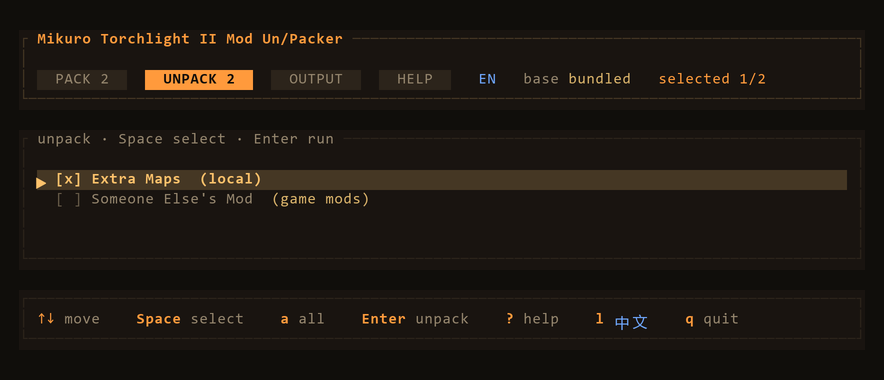
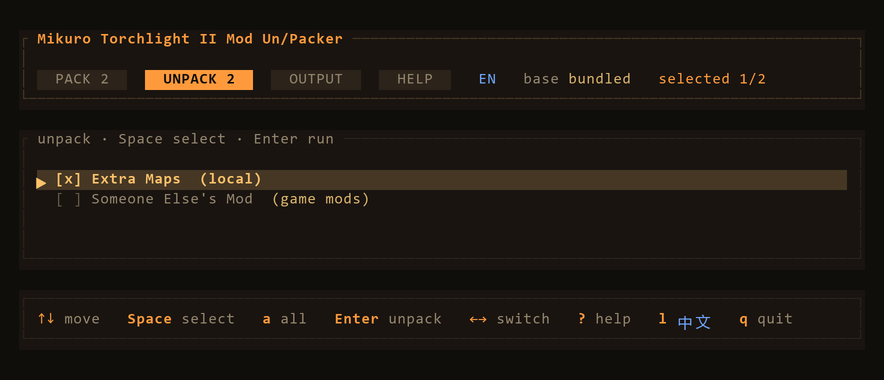
feat(tui): ←→ changes tab, and the footer stops clipping
The number keys 1-4 already switched tab but nothing said so, and the
pickers advertised no way to change tab at all — `Tab` was named only on
the Output and Help footers, where it reads as a character rather than a
key. Left/Right now switch too (Tab/BackTab and 1-4 still work) and `←→`
leads the hint on every footer, since an arrow pair needs no explaining.

That one extra entry exposed a defect the footer already had: it was a
fixed-gap line with no idea how wide the terminal was, so it clipped in
silence. Russian overflowed at 96 columns the moment the hint was added,
and the entries that fall off the END are `l <language>` and `q quit` —
the two nothing else in the UI advertises. The footer now closes its gaps
from 4 columns to 2, then drops entries marked optional (Home/End/c/a/?)
last-first, keeping move, run, tab, language and quit whatever the width.

Test walks all three languages × four tabs × 80/96/120 columns; it fails
on the pre-shrink layout (Russian at 80 loses the whole line). 80 columns
because that is what a default console window gives you.

Also folds the duplicate `switch_2` catalogue key into `switch`, and
regenerates the README screenshots so the manual shows the real footer.

Changed region(s): [[0.1527, 0.8105, 0.6414, 0.8684], [0.7636, 0.8105, 0.8857, 0.8684], [0.6719, 0.8105, 0.733, 0.8684]]

diff --git a/src/tui.rs b/src/tui.rs
@@ -1016,8 +1016,11 @@ fn handle_key(app: &mut App, k: KeyEvent) -> Option<ExitCode> {
         };
     }
     match k.code {
-            KeyCode::Tab => app.tab = (app.tab + 1) % TAB_COUNT,
-            KeyCode::BackTab => app.tab = (app.tab + TAB_COUNT - 1) % TAB_COUNT,
+            // ←→ is what the footer advertises: it has room for one hint, and an
+            // arrow pair needs no explaining. Tab/BackTab and the number keys go
+            // on working for whoever reaches for those first.
+            KeyCode::Tab | KeyCode::Right => app.tab = (app.tab + 1) % TAB_COUNT,
+            KeyCode::BackTab | KeyCode::Left => app.tab = (app.tab + TAB_COUNT - 1) % TAB_COUNT,
             // Direct tab keys: faster than cycling once there are three.
             KeyCode::Char('1') => app.tab = TAB_PACK,
             KeyCode::Char('2') => app.tab = TAB_UNPACK,
@@ -1580,86 +1583,117 @@ fn draw_help(f: &mut Frame, area: Rect, app: &App) {
     f.render_widget(p, area);
 }
 
+/// One footer entry: the key you press, what it does, and whether the line can
+/// be shortened by leaving it out.
+struct Hint {
+    key: String,
+    label: String,
+    color: Color,
+    /// True when the entry can be dropped on a narrow terminal. The keys that
+    /// cannot: moving, running, changing tab, changing language, quitting.
+    optional: bool,
+}
+
 fn draw_footer(f: &mut Frame, area: Rect, app: &App) {
-    // Both take the text by reference and own it in the Span: the labels now
-    // come from the string catalogue, which is borrowed from `app`.
-    let key = |s: &str| {
-        Span::styled(
-            s.to_string(),
-            Style::default().fg(theme::EMBER).add_modifier(Modifier::BOLD),
-        )
-    };
-    let sep = |s: &str| Span::styled(s.to_string(), Style::default().fg(theme::MUTED));
-    // Wider gaps between key/label pairs than between a key and its own label,
-    // so the eye groups them correctly instead of reading one long run.
     let tr = |key: &str| app.tr(key);
     let quit = if app.is_packing() {
         tr("running_2")
     } else {
         tr("quit")
     };
+    // The catalogue pads its footer labels on BOTH sides — a leading space held
+    // the key apart from its own label, trailing ones held the entries apart.
+    // Spacing is decided here now (it has to shrink on a narrow terminal), so
+    // the padding is trimmed back off.
+    let hint = |k: &str, label: &str, optional: bool| Hint {
+        key: k.to_string(),
+        label: label.trim().to_string(),
+        color: theme::MUTED,
+        optional,
+    };
+    // Changing tab is the one action available on EVERY tab, and the pickers
+    // advertised no way to do it at all — the number keys work but are invisible,
+    // and `Tab` reads as a character rather than a key. `←→` explains itself.
+    let tabs = || hint("←→", tr("switch"), false);
     // The language switch is on every tab: someone can land in a script they
     // cannot read, and the key must be reachable without understanding the UI.
     // The label is the NEXT language's own tag, so it reads the same to anyone.
-    let lang_hint = |v: &mut Vec<Span<'static>>| {
-        v.push(key("l"));
-        v.push(Span::styled(
-            format!(" {}    ", app.lang.next().tag()),
-            Style::default().fg(theme::MAGIC),
-        ));
+    let lang = || Hint {
+        key: "l".to_string(),
+        label: app.lang.next().tag().to_string(),
+        color: theme::MAGIC,
+        optional: false,
     };
-    let hint = if app.tab == TAB_HELP {
-        let mut v = vec![
-            key("↑↓"),
-            sep(tr("scroll")),
-            key("Home"),
-            sep(tr("top")),
-            key("Tab"),
-            sep(tr("switch")),
-        ];
-        lang_hint(&mut v);
-        v.push(key("q"));
-        v.push(sep(quit));
-        Line::from(v)
+
+    let mut items: Vec<Hint> = if app.tab == TAB_HELP {
+        vec![
+            hint("↑↓", tr("scroll"), false),
+            hint("Home", tr("top"), true),
+            tabs(),
+            lang(),
+        ]
     } else if app.tab == TAB_OUTPUT {
-        let mut v = vec![
-            key("↑↓"),
-            sep(tr("scroll_2")),
-            key("End"),
-            sep(tr("follow")),
-            key("c"),
-            sep(tr("clear")),
-            key("Tab"),
-            sep(tr("switch_2")),
-        ];
-        lang_hint(&mut v);
-        v.push(key("q"));
-        v.push(sep(quit));
-        Line::from(v)
+        vec![
+            hint("↑↓", tr("scroll_2"), false),
+            hint("End", tr("follow"), true),
+            hint("c", tr("clear"), true),
+            tabs(),
+            lang(),
+        ]
     } else {
-        let run = if app.tab == TAB_UNPACK {
-            tr("unpack_2")
-        } else {
-            tr("pack_2")
-        };
-        let mut v = vec![
-            key("↑↓"),
-            sep(tr("move")),
-            key("Space"),
-            sep(tr("select")),
-            key("a"),
-            sep(tr("all")),
-            key("Enter"),
-            sep(run),
-            key("?"),
-            sep(tr("help_2")),
-        ];
-        lang_hint(&mut v);
-        v.push(key("q"));
-        v.push(sep(quit));
-        Line::from(v)
+        let run = if app.tab == TAB_UNPACK { tr("unpack_2") } else { tr("pack_2") };
+        vec![
+            hint("↑↓", tr("move"), false),
+            hint("Space", tr("select"), false),
+            hint("a", tr("all"), true),
+            hint("Enter", run, false),
+            tabs(),
+            hint("?", tr("help_2"), true),
+            lang(),
+        ]
     };
-    let p = Paragraph::new(hint)
+    items.push(hint("q", quit, false));
+
+    // Fit the line: first close the gaps from 4 columns down to 2, then start
+    // leaving out the entries marked optional, last one first. A footer that
+    // silently clips is worse than a shorter one — the keys at the END are the
+    // ones you cannot discover any other way (language, quit).
+    let inner = area.width.saturating_sub(4) as usize;
+    let width = |items: &[Hint], gap: usize| -> usize {
+        items
+            .iter()
+            .map(|h| disp_width(&h.key) + 1 + disp_width(&h.label))
+            .sum::<usize>()
+            + gap * items.len().saturating_sub(1)
+    };
+    let mut gap = 4;
+    while gap > 2 && width(&items, gap) > inner {
+        gap -= 1;
+    }
+    while width(&items, gap) > inner {
+        match items.iter().rposition(|h| h.optional) {
+            Some(i) => {
+                items.remove(i);
+            }
+            None => break, // nothing left to give; the terminal is simply tiny
+        }
+    }
+
+    let mut spans: Vec<Span<'static>> = Vec::new();
+    for (i, h) in items.iter().enumerate() {
+        if i > 0 {
+            spans.push(Span::raw(" ".repeat(gap)));
+        }
+        spans.push(Span::styled(
+            h.key.clone(),
+            Style::default().fg(theme::EMBER).add_modifier(Modifier::BOLD),
+        ));
+        spans.push(Span::styled(
+            format!(" {}", h.label),
+            Style::default().fg(h.color),
+        ));
+    }
+    let p = Paragraph::new(Line::from(spans))
         .block(
             Block::default()
                 .borders(Borders::ALL)
@@ -2577,6 +2611,57 @@ mod tests {
         let wrapped = visible(&app, &mut terminal);
         assert_eq!(app.pack.state.selected(), Some(29));
         assert!(wrapped.contains(&"Mod29".to_string()), "wrapped to the last row and showed it");
+    }
+
+    /// The footer must never clip. It is the only place several keys are named
+    /// at all, and the ones at the END — change language, quit — are exactly the
+    /// ones nothing else advertises, so a line that silently ran off the edge
+    /// took those with it. Russian at 80 columns is the tight case: the labels
+    /// are the longest and 80×25 is what a default console window gives you.
+    #[test]
+    fn the_footer_fits_every_language_at_80_columns() {
+        use ratatui::backend::TestBackend;
+        use ratatui::Terminal;
+
+        let packs = || {
+            vec![ModEntry {
+                title: "Some Mod".into(),
+                file_name: "SOME_MOD".into(),
+                dir: PathBuf::from("/x/SomeMod"),
+                has_layouts: true,
+                action: Action::Pack,
+                origin: Origin::Local,
+            }]
+        };
+        for lang in [Lang::En, Lang::Zh, Lang::Ru] {
+            let mut app =
+                App::new(packs(), Vec::new(), BaseSource::Bundled, PathBuf::from("/x"));
+            app.set_lang(lang);
+            for width in [80u16, 96, 120] {
+                for tab in [TAB_PACK, TAB_UNPACK, TAB_OUTPUT, TAB_HELP] {
+                    app.tab = tab;
+                    let mut terminal = Terminal::new(TestBackend::new(width, 20)).unwrap();
+                    terminal.draw(|f| draw(f, &app)).unwrap();
+                    let text = buffer_text(terminal.backend().buffer());
+                    let footer = text
+                        .lines()
+                        .rev()
+                        .find(|l| l.contains('q'))
+                        .unwrap_or_default()
+                        .to_string();
+                    for want in ["←→", "l ", "q "] {
+                        assert!(
+                            footer.contains(want),
+                            "{lang:?} tab {tab} at {width} cols lost {want:?}: {footer:?}"
+                        );
+                    }
+                    assert!(
+                        footer.contains(app.lang.next().tag()),
+                        "{lang:?} tab {tab} at {width} cols lost the language switch: {footer:?}"
+                    );
+                }
+            }
+        }
     }
 
     /// Ctrl+C must quit, not clear the log. In raw mode it is an ordinary
